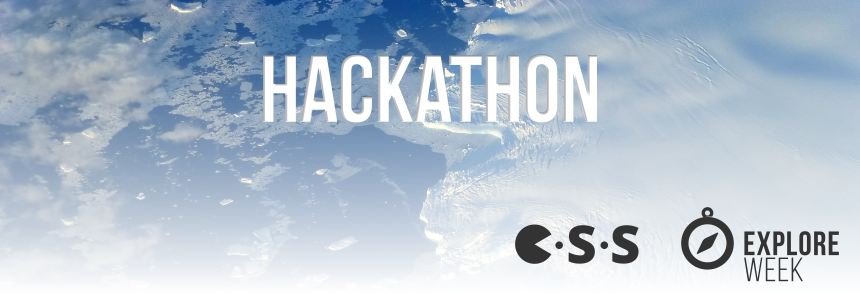
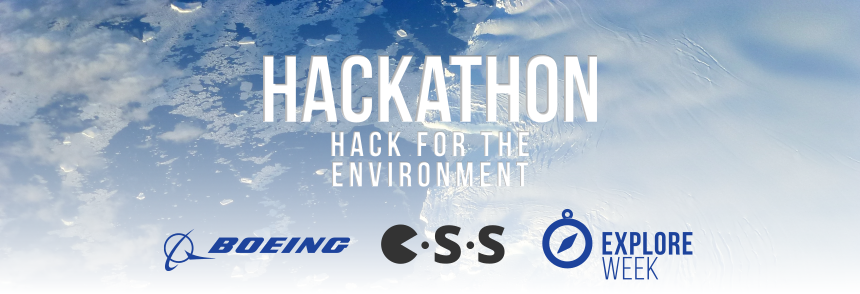
Add Explore Week page

Changed region(s): [[0.1814, 0.7041, 0.9977, 0.9796], [0.3628, 0.4286, 0.6349, 0.6429]]

diff --git a/pages/explore-week-2017-spring.md b/pages/explore-week-2017-spring.md
@@ -1,0 +1,34 @@
+---
+layout: page
+title: Explore Week Spring 2017
+permalink: /pages/explore-week-spring-2017
+redirect_from: "/exploreweek"
+---
+
+# Explore Week - Spring 2017
+
+**Make the most of the first-ever CS Explore Week, free from lectures and deadlines**. We're putting on a range of events to keep you entertained and help you explore the world of Computer Science.
+
+## **Monday February 27**: Boeing Explore Week Hackathon 2017
+
+![CSS Explore Week Hackathon 2017](/assets/images/contrib/events/2017-02-27-hackathon/hackathon-cover-image.png)
+
+This year we're holding our first ever Explore Week Hackathon! It's our biggest event of the year: make sure you sign up below.
+
+<a href="https://www.facebook.com/events/392877197725107/" class="btn btn--dark">Facebook Event</a>
+<a href="https://goo.gl/forms/lFDrMaW7tgRLT0ah2" class="btn btn--dark">Sign Up Now</a>
+<a href="/pages/hackathon-2017" class="btn btn--dark">Find Out More</a>
+
+## **Thursday March 2**: Lightning Talks
+
+![Lightning Talks](/assets/images/contrib/events/2017-02-explore-week/lightning-talks-cover-image.png)
+
+We're holding a series of short Lightning Talks from current students and staff. These are not to be missed! We'll be releasing more details soon.
+
+## **Thursday March 2**: CSS + COGS Games Night
+
+![CSS+COGS](/assets/images/contrib/events/2017-02-explore-week/css-cogs-cover-image.png)
+
+It was such a success last term, we're bringing it back for Explore Week! Come and chill out in MVB 1.11. We're bringing the pizza, COGS are bringing the games.
+
+<a href="https://www.facebook.com/events/1835664206693165/" class="btn btn--dark">Facebook Event</a>

diff --git a/pages/hackathon-2017.md b/pages/hackathon-2017.md
@@ -5,6 +5,8 @@ permalink: /pages/hackathon-2017
 redirect_from: "/hackathon"
 ---
 
+[Back to Explore Week](/pages/explore-week-spring-2017)
+
 # Boeing Explore Week Hackathon 2017
 
 ## Midday February 27 - Midday February 28
